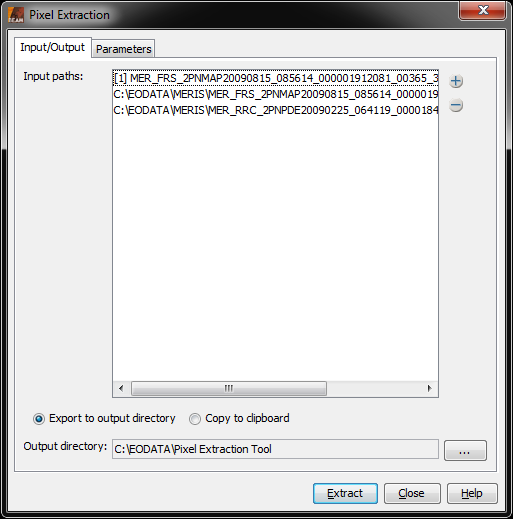
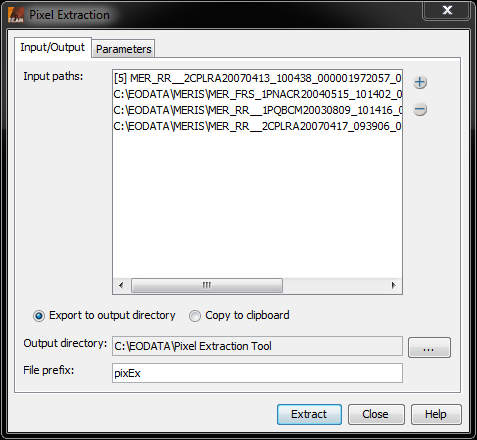
completed help

Changed region(s): [[0.0, 0.0, 1.0, 1.0], [0.2348, 0.6205, 0.8512, 0.6795], [0.8218, 0.7386, 0.8805, 0.7682]]

diff --git a/beam-pixel-extraction/src/main/resources/doc/help/pixelExtraction/PixelExtraction.html b/beam-pixel-extraction/src/main/resources/doc/help/pixelExtraction/PixelExtraction.html
@@ -44,7 +44,148 @@
 <h3>The Output Format</h3>
 
 <p>
-    The output format looks like this: pixelvaluebla.
+    The Pixel Extraction Tool generates output in the widely used and very general CSV-format, using tabstops as
+    separators.<br/>
+    It writes a file for each product type it has found within its input products (such as MER_FRS), each starting with
+    a header looking like this:<br/><br/>
+    <code>
+        # BEAM pixel extraction export table<br/>
+        #<br/>
+        # Window size: 1<br/>
+        # Expression: l1_flags.LAND_OCEAN<br/>
+        # Created on: 2010-09-17 14:53:21<br/>
+    </code><br/>
+    The header is followed by the table with the actual data; it might exemplarily look like this:<br/><br/>
+<table>
+    <tbody>
+    <tr>
+        <td>Expression result</td>
+        <td>ProdID</td>
+        <td>CoordID</td>
+        <td>Name</td>
+        <td>Latitude</td>
+        <td>Longitude</td>
+        <td>PixelX</td>
+        <td>PixelY</td>
+        <td>Date(yyyy-MM-dd)</td>
+        <td>Time(HH:mm:ss)</td>
+        <td>radiance_1</td>
+        <td>radiance_2</td>
+    </tr>
+    <tr>
+        <td>true</td>
+        <td>0</td>
+        <td>1</td>
+        <td>pin_1</td>
+        <td>41.31899</td>
+        <td>2.1386652</td>
+        <td>459.0</td>
+        <td>853.0</td>
+        <td>2003-08-09</td>
+        <td>12:14:16</td>
+        <td>157.6424</td>
+        <td>163.6796</td>
+    </tr>
+    <tr>
+        <td>true</td>
+        <td>1</td>
+        <td>1</td>
+        <td>pin_1</td>
+        <td>41.31899</td>
+        <td>2.1386652</td>
+        <td>459.0</td>
+        <td>853.0</td>
+        <td>2005-08-09</td>
+        <td>18:15:26</td>
+        <td>234.534</td>
+        <td>143.423</td>
+    </tr>
+    <tr>
+        <td>false</td>
+        <td>3</td>
+        <td>2</td>
+        <td>pin_2</td>
+        <td>43.3452</td>
+        <td>12.1232</td>
+        <td>539.0</td>
+        <td>533.0</td>
+        <td>2001-07-05</td>
+        <td>12:07:86</td>
+        <td>423.522194</td>
+        <td>156.625496</td>
+    </tr>
+    </tbody>
+</table>
+
+<p>
+    In the following table, the entries are explained in detail.
+</p>
+
+<table>
+    <thead>
+    <tr>
+        <th>Field</th>
+        <th>Description</th>
+    </tr>
+    </thead>
+    <tbody>
+    <tr>
+        <td>Expression result</td>
+        <td>True if the value matches the expression, false otherwise. Is omitted when expression is used for
+            filtering.
+        </td>
+    </tr>
+    <tr>
+        <td>ProdID</td>
+        <td>An ID for the product with relevance within the extracted data.</td>
+    </tr>
+    <tr>
+        <td>CoordID</td>
+        <td>An ID for the coordinate with relevance within the extracted data.</td>
+    </tr>
+    <tr>
+        <td>Name</td>
+        <td>The coordinate's name, if available.</td>
+    </tr>
+    <tr>
+        <td>Latitude</td>
+        <td>The coordinate's latitude value.</td>
+    </tr>
+    <tr>
+        <td>Longitude</td>
+        <td>The coordinate's longitude value.</td>
+    </tr>
+    <tr>
+        <td>PixelX</td>
+        <td>The data product's pixel value in x direction corresponding to the latitude value.</td>
+    </tr>
+    <tr>
+        <td>PixelY</td>
+        <td>The data product's pixel value in y direction corresponding to the longitude value.</td>
+    </tr>
+    <tr>
+        <td>Date(yyyy-MM-dd)</td>
+        <td>The data product's sensing date.</td>
+    </tr>
+    <tr>
+        <td>Time(HH:mm:ss)</td>
+        <td>The data product's sensing time.</td>
+    </tr>
+    <tr>
+        <td>radiance_1</td>
+        <td>Exemplarily: the first of the bands considered for value extracting.</td>
+    </tr>
+    <tr>
+        <td>radiance_2</td>
+        <td>Exemplarily: the second of the bands considered for value extracting.</td>
+    </tr>
+    </tbody>
+</table>
+
+<p>
+    Note that the two output formats slightly differ: when saving to disk, a file for each product type is
+    created, plus an additional file storing a mapping from product ids used in the output tables to data products.
+    When, however, using the clipboard, all values are copied at once.
 </p>
 
 <h3>The User Interface</h3>
@@ -81,9 +222,7 @@
 </p>
 
 <p>
-    The output formats slightly differ: when saving extracted pixel values to disk, a file for each product type is
-    created, plus an additional file storing a mapping from product ids used in the output tables to data products.
-    When, however, using the clipboard, all values are copied at once.
+    Lastly, a filename prefix may be specified if the values are to be written into files on disk.
 </p>
 
 <h4>The Parameters Pane</h4>
